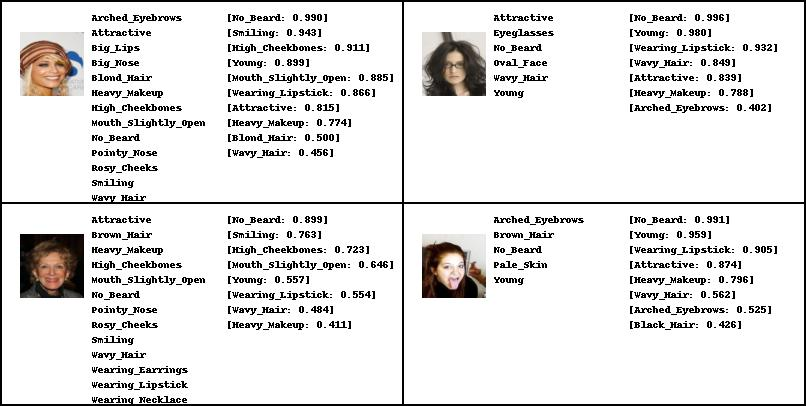
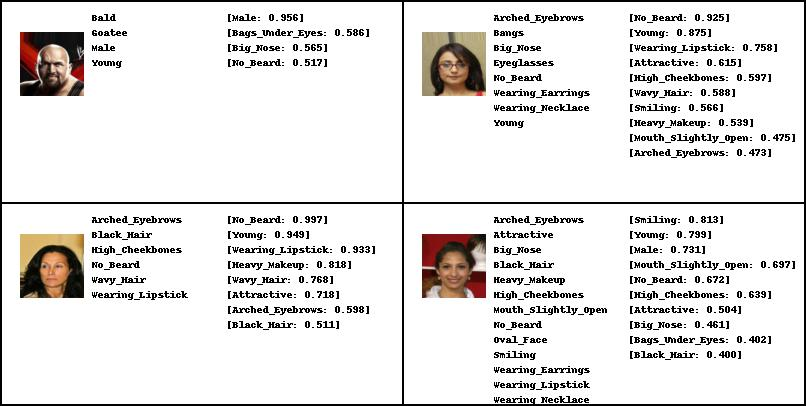
traverse

diff --git a/solver.py b/solver.py
@@ -512,7 +512,7 @@ class SCAN(Solver):
         #sym2img
         images = []
         for i in range(self.n_key):
-            random_ys = np.random.normal(loc=0, scale=0.3, size=[num_sym2img, self.nc])
+            random_ys = np.random.normal(loc=-1, scale=0.5, size=[num_sym2img, self.nc])
             random_ys[:, i] = 3
             random_ys = self.tensor(random_ys)
             image_subset = self.DAE_net(self.beta_VAE_net._decode(self.net._encode(random_ys))).cpu().data
